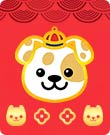
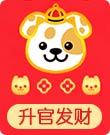
1 小Icon修改 2 统计代码测试版加入

diff --git a/dist/index.html b/dist/index.html
@@ -1,1 +1,1 @@
-<!DOCTYPE html><html lang="en"><head><meta charset="UTF-8"><title>拜年红包</title><meta name="author" content="lzd"><meta name="viewport" content="width=device-width,initial-scale=1,maximum-scale=1,user-scalable=0"><link rel="stylesheet" href="./static/css/reset.css"><link rel="stylesheet" href="./static/css/main.css?v=1554"><script src="./static/js/zepto.min.js"></script><script>var _hmt=_hmt||[];!function(){var e=document.createElement("script");e.src="https://hm.baidu.com/hm.js?24e21cea6b8b6bcfa760f23db9581dfb";var t=document.getElementsByTagName("script")[0];t.parentNode.insertBefore(e,t)}()</script></head><body><script>!function(e,t){var n=e.documentElement,i="orientationchange"in window?"orientationchange":"resize",d=(/iPad|iPhone|iPod/.test(navigator.userAgent)&&window.MSStream,function(){var t=n.clientWidth;t&&(t>=750?(t=750,e.body.style.width="750px"):e.body.style.width=t+"px",n.style.fontSize=t/750*100+"px",n.dataset.width=t,n.dataset.percent=t/750*100)});d(),e.documentElement.classList.add("iosx"+t.devicePixelRatio),e.addEventListener&&t.addEventListener(i,d,!1)}(document,window)</script><div id="app" class="p-r"><div style="z-index:9999;position:absolute;left:-999rem"><div id="zd_qrcode"></div><canvas id="qr-canvas" width="40" height="30"></canvas><input type="file" id="handleQR" accept="image/*"></div><div class="loadingDiv"><div class="flex"><span class="wpr"><img src="./static/img/loading.png" class="loadingIcon" alt=""></span></div></div><div id="firstPage" class="p-r" style="z-index:111;display:-none"><div class="p-r" style="z-index:66;background-color:#d2453f"><div class="tit p-a"><div class="t1_wpr"><img src="./static/img/first_t1.png" class="t1 animated" alt=""></div><div class="t2_wpr"><img src="./static/img/first_t2.png" class="t2 animated" alt=""></div></div><div class="guide"></div><div class="wpr p-a">已有<var id="joinNum">0</var>人参加<br>收到红包总额已突破<var id="targetNum">0</var>元 <span class="chooseBtn"><img src="./static/img/chooseBtn.png" style="width:1.84rem" alt=""></span></div></div><a href="https://b612kaji-pstatic.snowcam.cn/static/event/vi/chunjie/renminwang/app.html" id="aside"><img src="" width="100%" style="margin-top:.1rem;transition:all .4s;-webkit-transition:all .4s;opacity:0" alt=""></a></div><div class="firstPage_choose" style="display:none"><div class="wpr"><span class="openCamera">使用咔叽拍照</span> <span class="openGallery">从相册选取</span></div></div><div id="megaPixImage"></div><canvas id="cropCanvas" class="p-a" style="z-index:1;left:-999rem;background-color:rgba(0,0,0,0)" width="420" height="420"></canvas><div id="cropSection" style="display:none;z-index:222"><div class="theme" style="z-index:2"><div id="theme_bg" class="p-r" style="box-sizing:border-box"><img src="" id="themeBgImg" style="width:100%"> <img id="eCode" class="ecode p-a" src="./static/img/upqr.jpg" alt=""></div><div id="cropLayer" class="p-a" style="z-index:266"><div class="wpr p-a"><img id="cropImg" class="p-a" style="top:0;width:100%" src=""></div></div><div id="dropArea" class="defaultPic p-a"></div></div><div class="styleChoose p-r" id="theme_foot"><img src="" alt=""> <a href="javascript:void(0)" id="toNext" style="position:absolute;left:-999rem">下一步</a><div class="wpr p-a"><div><div class="item" id="reChoose"><img src="./static/img/reChoose.png" style="width:.63rem" alt=""></div><span></span></div></div></div></div><div id="proSection" style="display:none"><div class="p-r"><div class="view"><div class="vwpr"><img src="" alt=""></div></div><div class="content p-r"><img src="" width="100%" alt=""><div class="wpr p-a"><div><span class="save">保存</span></div><div><span class="share">分享</span></div></div></div></div></div><div class="toast" style="display:none">拜年红包图制作完成</div><div class="nextGuide" style="display:none"><div class="wpr p-r"><div class="paw p-a"><img src="./static/img/paw.png" alt=""></div><div class="paw2 p-a"><img src="./static/img/paw.png" alt=""></div><div class="flow p-a"><img src="./static/img/flower.png" alt=""></div><div class="p1"></div><div class="confirm"><span>确定</span></div></div></div><div id="qrGuide" style="z-index:333;display:none"><div class="wpr"><div class="return">返回</div><a href="javascript:void(0)" class="btn">上传微信收款二维码</a> <img src="" style="width:6.87rem" alt=""><p>- 1 -<br>点击微信右上角“+”，弹出框点击“收付款”</p><img src="" style="width:4.32rem" alt=""><p>- 2 -<br>点击“二维码收款”</p><img src="" style="width:4.65rem" alt=""><p>- 3 -<br>点击“保存收款码”</p><img src="" style="width:4rem" alt=""><p>- 4 -<br>收款码将会保存在相册里</p><img src="" style="width:4.26rem" alt=""> <a href="javascript:void(0)" class="btn">上传微信收款二维码</a></div></div></div><audio src="" controls loop id="audio" style="position:absolute;left:-999rem"></audio><div id="audio_control" class="p-a"><img src="./static/img/audio_Icon.png" alt=""></div><div id="testTxt" style="display:none;position:absolute;white-space:nowrap;overflow:scroll;line-height:1;width:100%;z-index:66666;bottom:0;left:0">test</div><img id="testImg" src="" style="position:absolute;z-index:66666;left:-999rem;top:0" alt=""><script>function loadScript(e,a){var d=document.createElement("script");d.type="text/javascript",d.readyState?d.onreadystatechange=function(){"loaded"!=d.readyState&&"complete"!=d.readyState||(d.onreadystatechange=null,a&&a())}:d.onload=function(){a&&a()},d.src=e,document.getElementsByTagName("head")[0].appendChild(d)}window.getCameraS=!1,function(){var e=navigator.userAgent;window.isAndroid=!1,window.isIos=!1,window.isOther=!1,/Android (\d+\.\d+)/.test(e)?(window.isAndroid=!0,loadScript("./static/js/bridge_android.js")):/iPhone|iPad|iPod/i.test(e)?(window.isIos=!0,loadScript("./static/js/bridge_ios.js")):window.isOther=!0}();var zeptoJsLoaded=!0,extJsLoad=!1,globalJsloaded=!1,mainJsLoaded=!1,allJsloaded=!1,checkAll=function(e){console.log("check js this time ok:",e,zeptoJsLoaded,extJsLoad,globalJsloaded,mainJsLoaded),zeptoJsLoaded&&extJsLoad&&globalJsloaded&&mainJsLoaded&&(setTimeout(function(){indexPageReady()},0),allJsloaded=!0,checkAll=null)};loadScript("./static/js/global.js",function(){globalJsloaded=!0,checkAll("global")}),loadScript("./static/js/ext.js",function(){extJsLoad=!0,checkAll("ext")}),loadScript("./static/js/main.js?v=1443",function(){mainJsLoaded=!0,checkAll("main")})</script></body><script>!function(){var t=document.querySelector("#audio_control"),e=(document.querySelector("#app"),document.querySelector("#audio")),n=document.querySelectorAll("#audio_control img")[0],i=(t.querySelector("img"),"createTouch"in document?"touchend":"click"),o=($("#cropSection").scrollTop(),!1);e.src="./mus.mp3",e.load();var a=function(){o=!1,t.classList.remove("run"),n.style.animationName="",n.style.WebkitAnimationName="",n.style.animationPlayState="paused",n.style.WebkitAnimationPlayState="paused",e.pause()},u=function(){o=!0,t.classList.add("run"),n.style.animationName="audIconRun",n.style.WebkitAnimationName="audIconRun",n.style.animationPlayState="running",n.style.WebkitAnimationPlayState="running",e.play()};document.body.addEventListener(i,function t(e){u(),document.body.removeEventListener(i,t)},!1),document.querySelector("#audio_control").addEventListener(i,function(t){o?a():u(),t.stopPropagation()},!1),document.visibilityState&&document.addEventListener("visibilitychange",function(){var t=o;setTimeout(function(){"hidden"==document.visibilityState?e.pause():"visible"==document.visibilityState&&(t?u():a())},120)},!1),u()}()</script></html>
+<!DOCTYPE html><html lang="en"><head><meta charset="UTF-8"><title>拜年红包</title><meta name="author" content="lzd"><meta name="viewport" content="width=device-width,initial-scale=1,maximum-scale=1,user-scalable=0"><link rel="stylesheet" href="./static/css/reset.css"><link rel="stylesheet" href="./static/css/main.css?v=1554"><script src="./static/js/zepto.min.js"></script></head><body><script>!function(e,t){var n=e.documentElement,i="orientationchange"in window?"orientationchange":"resize",d=(/iPad|iPhone|iPod/.test(navigator.userAgent)&&window.MSStream,function(){var t=n.clientWidth;t&&(t>=750?(t=750,e.body.style.width="750px"):e.body.style.width=t+"px",n.style.fontSize=t/750*100+"px",n.dataset.width=t,n.dataset.percent=t/750*100)});d(),e.documentElement.classList.add("iosx"+t.devicePixelRatio),e.addEventListener&&t.addEventListener(i,d,!1)}(document,window)</script><div id="app" class="p-r"><div style="z-index:9999;position:absolute;left:-999rem"><div id="zd_qrcode"></div><canvas id="qr-canvas" width="40" height="30"></canvas><input type="file" id="handleQR" accept="image/*"></div><div class="loadingDiv"><div class="flex"><span class="wpr"><img src="./static/img/loading.png" class="loadingIcon" alt=""></span></div></div><div id="firstPage" class="p-r" style="z-index:111;display:-none"><div class="p-r" style="z-index:66;background-color:#d2453f"><div class="tit p-a"><div class="t1_wpr"><img src="./static/img/first_t1.png" class="t1 animated" alt=""></div><div class="t2_wpr"><img src="./static/img/first_t2.png" class="t2 animated" alt=""></div></div><div class="guide"></div><div class="wpr p-a">已有<var id="joinNum">0</var>人参加<br>收到红包总额已突破<var id="targetNum">0</var>元 <span class="chooseBtn"><img src="./static/img/chooseBtn.png" style="width:1.84rem" alt=""></span></div></div><a href="https://b612kaji-pstatic.snowcam.cn/static/event/vi/chunjie/renminwang/app.html" id="aside"><img src="" width="100%" style="margin-top:.1rem;transition:all .4s;-webkit-transition:all .4s;opacity:0" alt=""></a></div><div class="firstPage_choose" style="display:none"><div class="wpr"><span class="openCamera">使用咔叽拍照</span> <span class="openGallery">从相册选取</span></div></div><div id="megaPixImage"></div><canvas id="cropCanvas" class="p-a" style="z-index:1;left:-999rem;background-color:rgba(0,0,0,0)" width="420" height="420"></canvas><div id="cropSection" style="display:none;z-index:222"><div class="theme" style="z-index:2"><div id="theme_bg" class="p-r" style="box-sizing:border-box"><img src="" id="themeBgImg" style="width:100%"> <img id="eCode" class="ecode p-a" src="./static/img/upqr.jpg" alt=""></div><div id="cropLayer" class="p-a" style="z-index:266"><div class="wpr p-a"><img id="cropImg" class="p-a" style="top:0;width:100%" src=""></div></div><div id="dropArea" class="defaultPic p-a"></div></div><div class="styleChoose p-r" id="theme_foot"><img src="" alt=""> <a href="javascript:void(0)" id="toNext" style="position:absolute;left:-999rem">下一步</a><div class="wpr p-a"><div><div class="item" id="reChoose"><img src="./static/img/reChoose.png" style="width:.63rem" alt=""></div><span></span></div></div></div></div><div id="proSection" style="display:none"><div class="p-r"><div class="view"><div class="vwpr"><img src="" alt=""></div></div><div class="content p-r"><img src="" width="100%" alt=""><div class="wpr p-a"><div><span class="save">保存</span></div><div><span class="share">分享</span></div></div></div></div></div><div class="toast" style="display:none">拜年红包图制作完成</div><div class="nextGuide" style="display:none"><div class="wpr p-r"><div class="paw p-a"><img src="./static/img/paw.png" alt=""></div><div class="paw2 p-a"><img src="./static/img/paw.png" alt=""></div><div class="flow p-a"><img src="./static/img/flower.png" alt=""></div><div class="p1"></div><div class="confirm"><span>确定</span></div></div></div><div id="qrGuide" style="z-index:333;display:none"><div class="wpr"><div class="return">返回</div><a href="javascript:void(0)" class="btn">上传微信收款二维码</a> <img src="" style="width:6.87rem" alt=""><p>- 1 -<br>点击微信右上角“+”，弹出框点击“收付款”</p><img src="" style="width:4.32rem" alt=""><p>- 2 -<br>点击“二维码收款”</p><img src="" style="width:4.65rem" alt=""><p>- 3 -<br>点击“保存收款码”</p><img src="" style="width:4rem" alt=""><p>- 4 -<br>收款码将会保存在相册里</p><img src="" style="width:4.26rem" alt=""> <a href="javascript:void(0)" class="btn">上传微信收款二维码</a></div></div></div><audio src="" controls loop id="audio" style="position:absolute;left:-999rem"></audio><div id="audio_control" class="p-a"><img src="./static/img/audio_Icon.png" alt=""></div><div id="testTxt" style="display:none;position:absolute;white-space:nowrap;overflow:scroll;line-height:1;width:100%;z-index:66666;bottom:0;left:0">test</div><img id="testImg" src="" style="position:absolute;z-index:66666;left:-999rem;top:0" alt=""><script>function loadScript(e,a){var d=document.createElement("script");d.type="text/javascript",d.readyState?d.onreadystatechange=function(){"loaded"!=d.readyState&&"complete"!=d.readyState||(d.onreadystatechange=null,a&&a())}:d.onload=function(){a&&a()},d.src=e,document.getElementsByTagName("head")[0].appendChild(d)}window.getCameraS=!1,function(){var e=navigator.userAgent;window.isAndroid=!1,window.isIos=!1,window.isOther=!1,/Android (\d+\.\d+)/.test(e)?(window.isAndroid=!0,loadScript("./static/js/bridge_android.js")):/iPhone|iPad|iPod/i.test(e)?(window.isIos=!0,loadScript("./static/js/bridge_ios.js")):window.isOther=!0}();var zeptoJsLoaded=!0,extJsLoad=!1,globalJsloaded=!1,mainJsLoaded=!1,allJsloaded=!1,checkAll=function(e){console.log("check js this time ok:",e,zeptoJsLoaded,extJsLoad,globalJsloaded,mainJsLoaded),zeptoJsLoaded&&extJsLoad&&globalJsloaded&&mainJsLoaded&&(setTimeout(function(){indexPageReady()},0),allJsloaded=!0,checkAll=null)};loadScript("./static/js/global.js",function(){globalJsloaded=!0,checkAll("global")}),loadScript("./static/js/ext.js",function(){extJsLoad=!0,checkAll("ext")}),loadScript("./static/js/main.js?v=1443",function(){mainJsLoaded=!0,checkAll("main")})</script></body><script>!function(){var e=document.querySelector("#audio_control"),t=(document.querySelector("#app"),document.querySelector("#audio")),n=document.querySelectorAll("#audio_control img")[0],i=(e.querySelector("img"),"createTouch"in document?"touchend":"click"),o=($("#cropSection").scrollTop(),!1);t.src="./mus.mp3",t.load();var a=function(){o=!1,e.classList.remove("run"),n.style.animationName="",n.style.WebkitAnimationName="",n.style.animationPlayState="paused",n.style.WebkitAnimationPlayState="paused",t.pause()},c=function(){o=!0,e.classList.add("run"),n.style.animationName="audIconRun",n.style.WebkitAnimationName="audIconRun",n.style.animationPlayState="running",n.style.WebkitAnimationPlayState="running",t.play()};document.body.addEventListener(i,function e(t){c(),document.body.removeEventListener(i,e)},!1),document.querySelector("#audio_control").addEventListener(i,function(e){o?a():c(),e.stopPropagation()},!1),document.visibilityState&&document.addEventListener("visibilitychange",function(){var e=o;setTimeout(function(){"hidden"==document.visibilityState?t.pause():"visible"==document.visibilityState&&(e?c():a())},120)},!1),c()}();var _hmt=_hmt||[];!function(){var e=document.createElement("script");e.src="https://hm.baidu.com/hm.js?be9a3162e66cf597bfcd0f4b5749908d";var t=document.getElementsByTagName("script")[0];t.parentNode.insertBefore(e,t)}()</script></html>

diff --git a/src/index.html b/src/index.html
@@ -9,16 +9,6 @@
     <link rel="stylesheet" type="text/css" href="./static/css/main.css?v=1554">
     <script type="text/javascript" src="./static/js/zepto.min.js"></script>
     </script>
-    <script>
-    // 百度统计
-    var _hmt = _hmt || [];
-    (function() {
-      var hm = document.createElement("script");
-      hm.src = "https://hm.baidu.com/hm.js?24e21cea6b8b6bcfa760f23db9581dfb";
-      var s = document.getElementsByTagName("script")[0];
-      s.parentNode.insertBefore(hm, s);
-    })();
-    </script>
   </head>
 <body>
 <script type="text/javascript">
@@ -316,5 +306,13 @@ window.getCameraS = false;
     }
     _play()
 }()
+
+var _hmt = _hmt || [];
+(function() {
+  var hm = document.createElement("script");
+  hm.src = "https://hm.baidu.com/hm.js?be9a3162e66cf597bfcd0f4b5749908d";
+  var s = document.getElementsByTagName("script")[0];
+  s.parentNode.insertBefore(hm, s);
+})();
 </script>
 </html>
